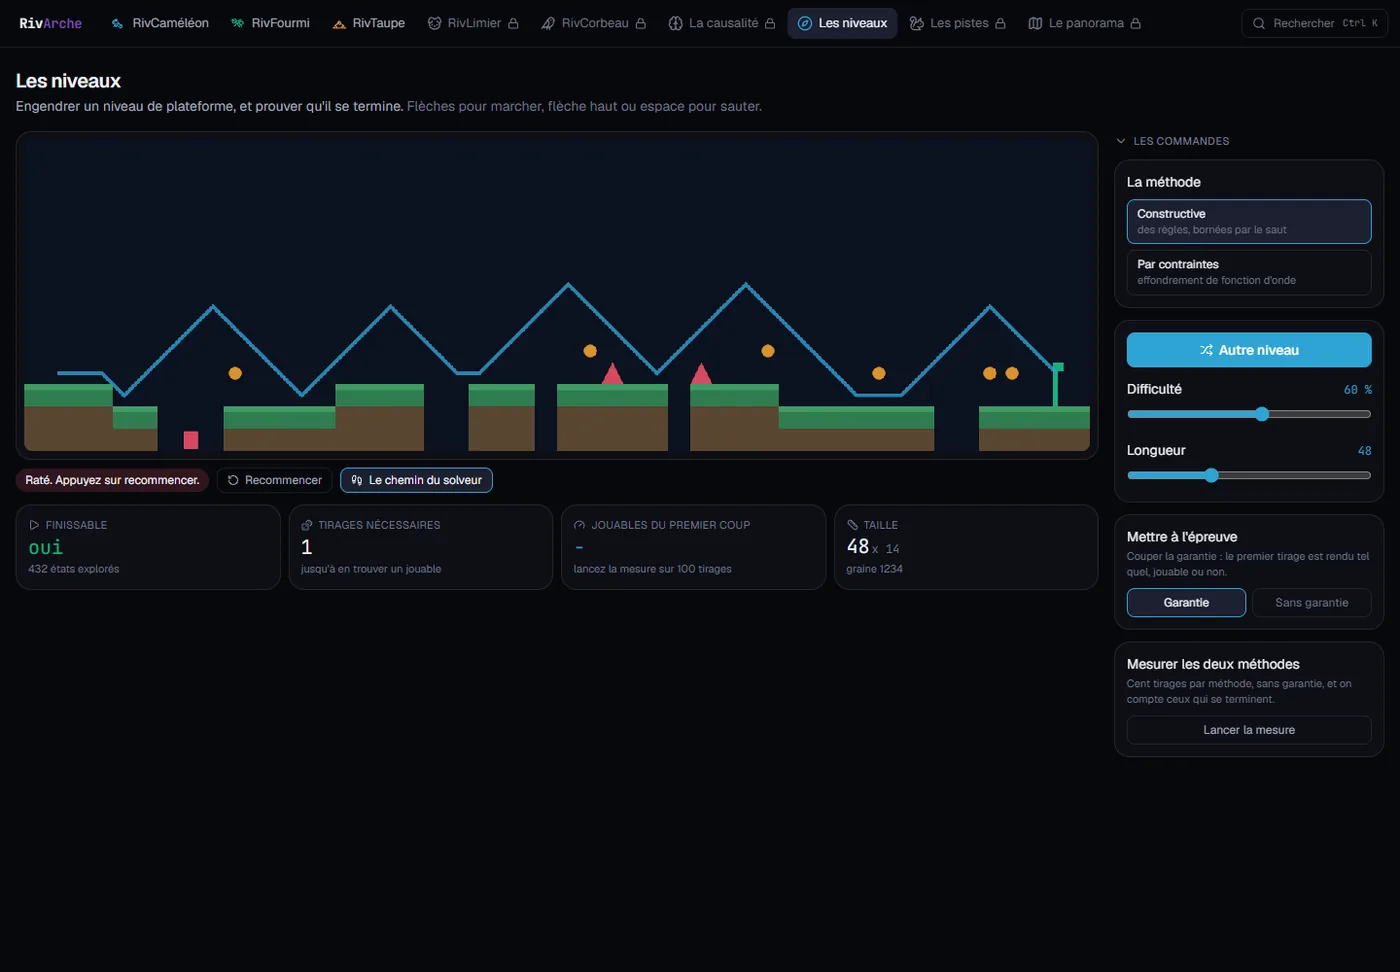
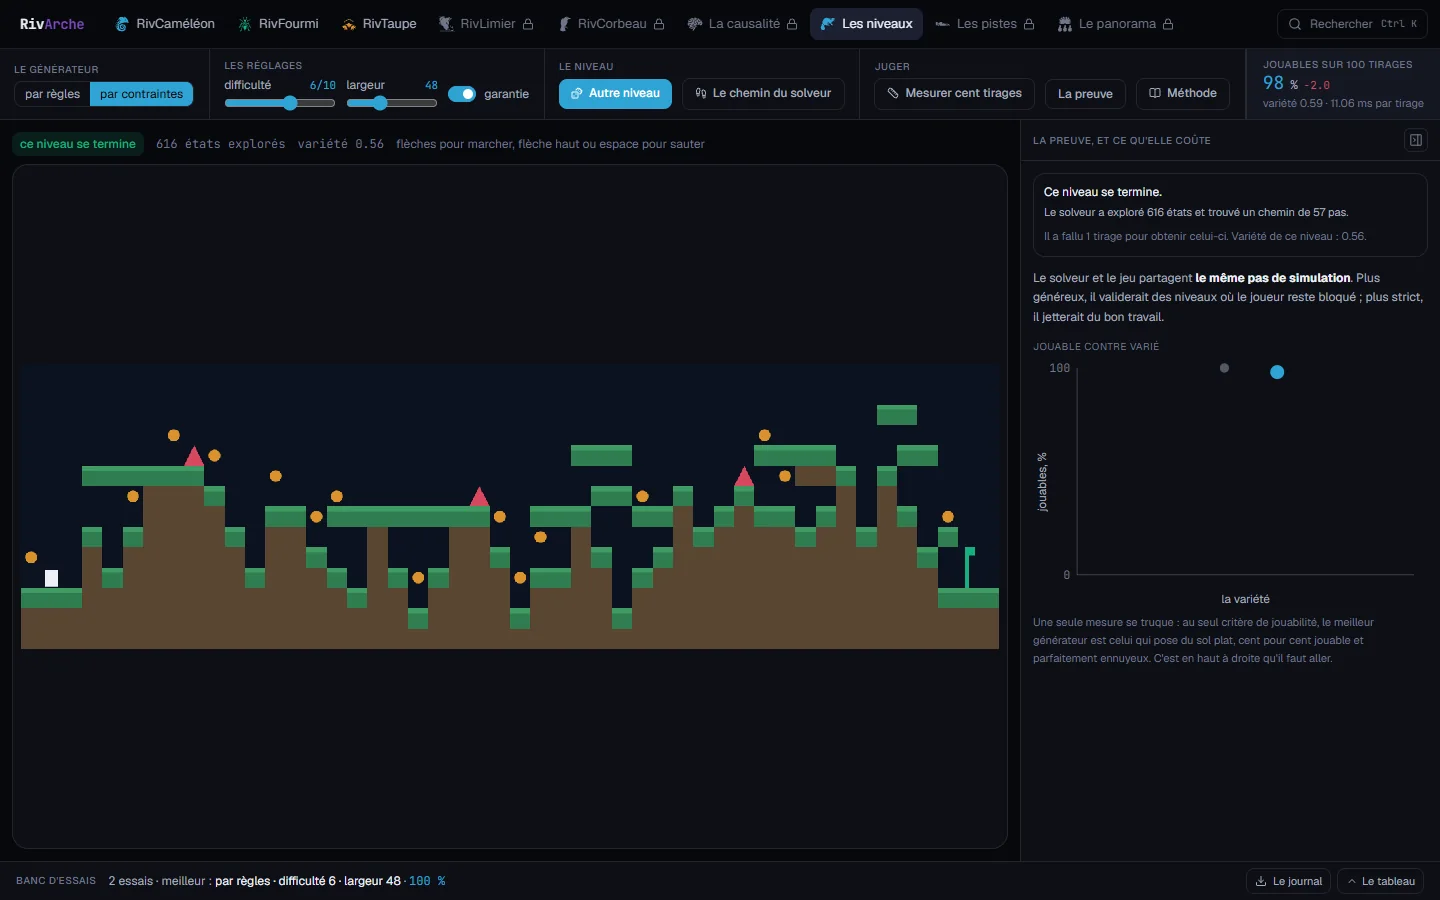
Les trois fiches suivent la refonte des ateliers
Neuf captures nouvelles et les chiffres mesures : 100 pour cent sur le ou
exclusif sans couche cachee grace au seul produit x.y contre 30 sans lui ;
les trois defauts du nuage de RivTaupe et le relais vers RivFourmi ; la
variete mesuree a cote de la jouabilite sur Castor.

diff --git a/src/projets/rivfourmi/fiche.ts b/src/projets/rivfourmi/fiche.ts
@@ -1,5 +1,6 @@
 import type { Projet } from "../types";
 import plateau from "./plateau.webp";
+import validation from "./validation.webp";
 import sansCouche from "./sans-couche.webp";
 
 const fiche: Projet = {
@@ -23,6 +24,13 @@ const fiche: Projet = {
   },
   galerie: [
     {
+      src: validation,
+      alt: "Le volet de la perte, et les deux exactitudes",
+      legende:
+        "La courbe de perte, le nombre de poids, et les deux exactitudes l'une sous l'autre : sur les points appris, et sur les points gardés de côté. L'écart entre elles dit si le réseau a appris la règle ou les points par coeur",
+      format: "ecran",
+    },
+    {
       src: plateau,
       alt: "Avec deux couches cachées",
       legende:
@@ -39,7 +47,8 @@ const fiche: Projet = {
   ],
   chiffres: [
     { valeur: 200, libelle: "lignes pour le réseau, sans aucune bibliothèque d'apprentissage" },
-    { valeur: 96, suffixe: " %", libelle: "sur le ou exclusif sans couche cachée, grâce aux traits dérivés" },
+    { valeur: 100, suffixe: " %", libelle: "sur le ou exclusif sans couche cachée, grâce au seul produit x·y" },
+    { valeur: 30, suffixe: " %", libelle: "sans couche et sans ce trait : le même réseau s'effondre" },
     { valeur: 0, libelle: "octet téléchargé : il n'y a pas de modèle, il s'entraîne devant vous" },
     { valeur: 4, libelle: "jeux de points, du séparable à la spirale" },
     { valeur: 10, libelle: "pas d'apprentissage par image affichée" },
@@ -49,6 +58,35 @@ const fiche: Projet = {
   solution:
     "Un plateau où l'on pose les points et où la frontière apprise se dessine sous eux. Le nombre de couches cachées est un bouton : à zéro, le réseau ne peut tracer qu'une droite, et le ou exclusif le met à genoux. Mesuré en ligne : de l'ordre de 80 pour cent de points bien classés sans couche cachée, contre 99 avec deux.",
   sections: [
+    {
+      titre: "Le réseau se montre, et ce qui coule dedans",
+      texte:
+        "Le reproche était juste : on ne voyait pas le réseau, seulement son résultat. Il est maintenant l'objet central, dessiné tel qu'il est.",
+      points: [
+        "L'**épaisseur** d'un trait est le poids appris, sa **couleur** le signe de ce poids",
+        "Ses **tirets défilent** à la vitesse de l'activation moyenne qui passe par lui : un lien éteint est un lien par lequel rien ne passe, et avec relu c'est la mort d'un neurone qu'on voit en direct",
+        "Le nombre de couches et le nombre de neurones de chacune se règlent **sur le dessin lui-même**, pas dans un formulaire à côté",
+        "Tracé à la main plutôt qu'avec une bibliothèque de graphes : la disposition se calcule en deux lignes, rien n'est déplaçable, et le débit d'un lien n'existe dans aucune bibliothèque",
+      ],
+    },
+    {
+      titre: "Un point sur trois n'est jamais appris",
+      texte:
+        "C'est la validation du sujet, rendue manipulable, et c'est le seul chiffre honnête.",
+      points: [
+        "Sans elle, un réseau de quatre couches sur cent points affiche cent pour cent et le visiteur croit avoir gagné : il a seulement appris les points par coeur",
+        "Les points gardés de côté portent un **anneau blanc** : on voit lesquels le réseau n'a jamais vus",
+        "Le volet affiche les deux exactitudes l'une sous l'autre. L'écart entre elles est le seul chiffre qui compte",
+      ],
+    },
+    {
+      titre: "Trois fonctions d'activation, et l'initialisation qui va avec",
+      points: [
+        "**tanh**, centrée, la plus sûre sur un petit réseau ; **sigmoïde**, qui sature et fait disparaître le gradient ; **relu**, rapide, mais un neurone peut mourir",
+        "La dérivée est écrite en fonction de l'activation déjà calculée, pas de la somme pondérée : la rétropropagation n'a rien d'autre à garder",
+        "L'échelle d'initialisation suit la fonction : Xavier pour tanh, **He pour relu**, parce que la moitié des sorties est à zéro et que Xavier éteindrait le signal couche après couche",
+      ],
+    },
     {
       titre: "Ce qui est écrit à la main, et pourquoi",
       points: [

diff --git a/src/projets/rivtaupe/fiche.ts b/src/projets/rivtaupe/fiche.ts
@@ -57,6 +57,27 @@ const fiche: Projet = {
     "Afficher le résultat et sa référence côte à côte, toujours. Nommer les pièges avant d'entraîner quoi que ce soit, et donner le bouton qui les retire pour que le visiteur voie le chiffre retomber. Sur le tableau piégé : 1,000 avec la fuite, 0,983 sans.",
   sections: [
     {
+      titre: "Trois défauts derrière un seul constat",
+      texte:
+        "« Quand je change le nombre de groupes, rien ne change. » C'était vrai, et il y avait trois causes empilées. Un symptôme, trois causes : il ne faut pas s'arrêter à la première.",
+      points: [
+        "La palette du nuage était `[bleu, vert, ambre][groupe % 3]` : au-delà de trois groupes, le quatrième reprenait la couleur du premier et l'écran était **littéralement identique**",
+        "Le curseur effaçait le résultat et attendait un nouveau clic : on bougeait le réglage et rien ne se passait",
+        "Le cadrage était figé et les axes sans nom : sans mise à l'échelle, les points sortaient du cadre et disparaissaient",
+        "Corrigé : une couleur **et une forme** par groupe, le centre de chacun marqué, les axes nommés avec le choix des colonnes montrées, un cadrage calculé sur les données, et le calcul qui se relance seul",
+      ],
+    },
+    {
+      titre: "Quand il faut passer la main",
+      texte:
+        "Les cinq plus proches voisins tournent en témoin sur le même découpage. Ils ne tracent aucune droite.",
+      points: [
+        "S'ils font nettement mieux que la régression logistique, le tableau n'est pas mauvais : **sa frontière est courbe**",
+        "L'atelier le dit alors en clair et propose d'emmener le tableau chez RivFourmi, plutôt que de laisser croire qu'il n'y a rien à en tirer",
+        "Le signal est un chiffre, pas une impression : cinq points d'écart sur la même partie d'essai",
+      ],
+    },
+    {
       titre: "Ce que les détecteurs cherchent",
       points: [
         "**La fuite** : une colonne dont la corrélation avec la cible dépasse 95 pour cent. Elle contient déjà la réponse, et le modèle sera parfait jusqu'au jour où cette colonne n'existe pas encore",

diff --git a/src/projets/rivniveaux/fiche.ts b/src/projets/rivniveaux/fiche.ts
@@ -48,6 +48,7 @@ const fiche: Projet = {
   chiffres: [
     { valeur: 100, suffixe: " %", libelle: "de niveaux jouables, approche constructive, sur 100 tirages" },
     { valeur: 98, suffixe: " %", libelle: "par contraintes : plus varié, et plus souvent faux" },
+    { valeur: 94, suffixe: " %", libelle: "à difficulté maximale et en 96 de large : six tirages sur cent sont infranchissables" },
     { valeur: 5, libelle: "nombres suffisent à décrire la physique, partagée par le jeu et le solveur" },
     { valeur: 0, libelle: "image téléchargée : le décor est dessiné au trait" },
   ],
@@ -56,6 +57,16 @@ const fiche: Projet = {
   solution:
     "Un solveur qui explore les états atteignables par parcours en largeur, avec **exactement le même pas de simulation que le jeu**. La génération tire, le solveur vérifie, et on recommence tant que le niveau ne se termine pas. Le nombre de tirages nécessaires devient la mesure qui compare les deux méthodes.",
   sections: [
+    {
+      titre: "Une seule mesure se truque",
+      texte:
+        "Au seul critère de jouabilité, le meilleur générateur est celui qui pose du sol plat : cent pour cent jouable, et parfaitement ennuyeux. Il fallait donc un second axe.",
+      points: [
+        "La **variété** est l'entropie des profils de colonnes, rapportée à l'entropie maximale : un niveau d'un seul profil vaut zéro, un niveau qui les utilise tous également vaut un",
+        "Mesuré sur cent tirages : l'approche par règles donne **100 pour cent de jouables pour une variété de 0,44**, celle par contraintes **98 pour cent pour 0,59**",
+        "Le banc d'essais les place sur deux axes, et le choix d'un réglage se défend alors au lieu de se décréter",
+      ],
+    },
     {
       titre: "Pourquoi le solveur et le jeu partagent leur physique",
       texte:
